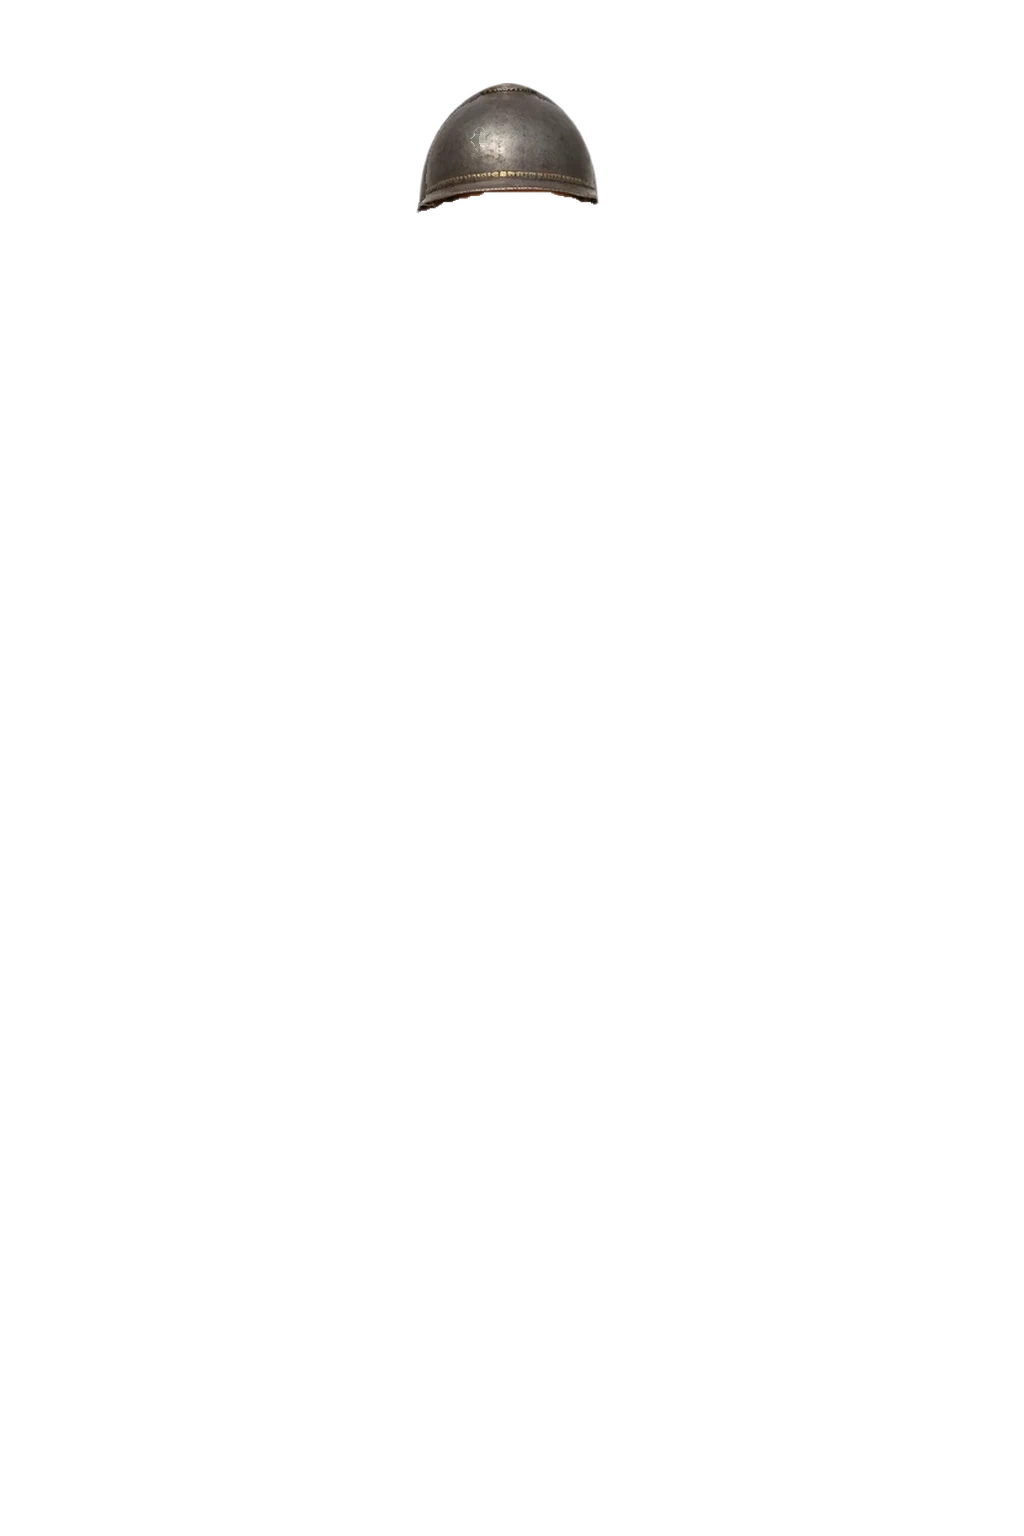
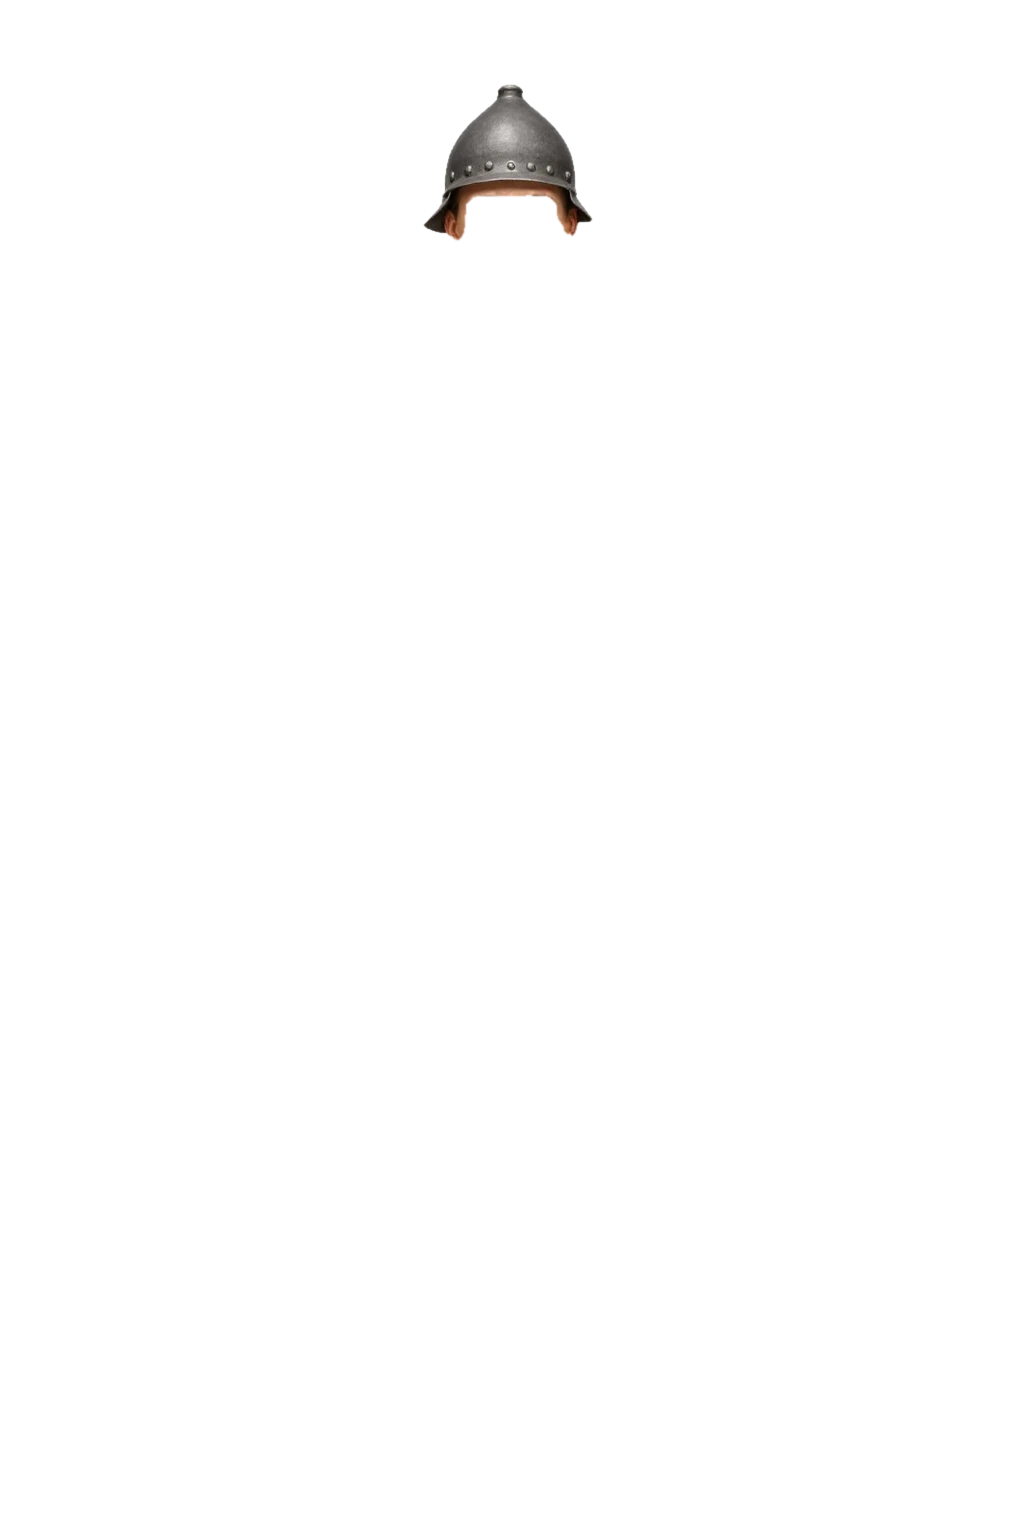
Noční běh: kroužkové košile, plášť s kápí (muž), zbroje ženy, helmy ženy, kožená čepice podle účesů
Claude-Session: https://claude.ai/code/session_01Q25kmxKucwLhnUcj4Ap4v4

Changed region(s): [[0.4062, 0.0312, 0.5938, 0.1562]]

diff --git a/nastroje/zpracuj_noc.py b/nastroje/zpracuj_noc.py
@@ -36,7 +36,7 @@ def zpracuj_hlavu(slozka, pref):
         print(pref, "NEPROŠLO", [v for *_, v in kand]); return None
     _, _, f, v = dobre[0]
     vyl = None
-    if druh == "cepice" and vl != "bez":
+    if False and druh == "cepice" and vl != "bez":   # vyloučení barvy vlasů ničilo hnědé čepice
         vyl = ndimage.binary_erosion(np.array(Image.open(P / f"vlasy-{sx}-{vl}.webp"))[..., 3] > 200, iterations=2)
     im, px = vrstva(zaklad, f, sx, bez=("chodidla", "ruce"), len_ven=False, vylouc=vyl, jen_nad=520)
     nazev = f"helma-{slug}" + ("-zena" if sx == "zena" else "") + (f"-{vl}" if druh == "cepice" else "")
